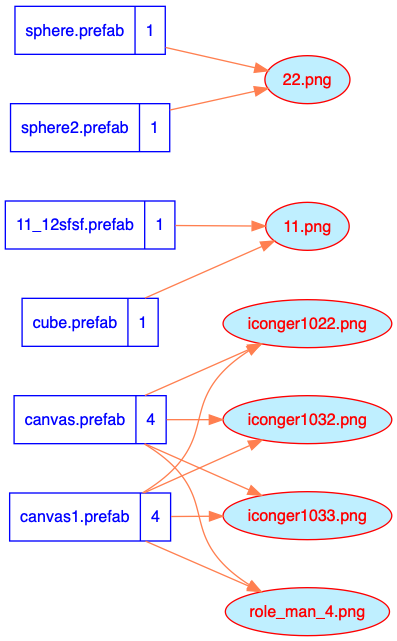
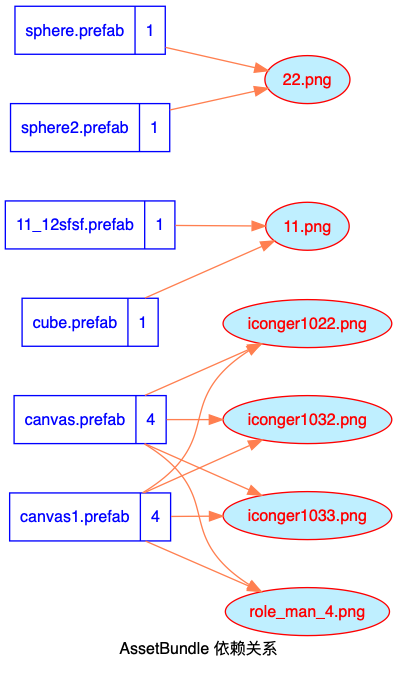
+up

diff --git a/Assets/ABSystem/Editor/AssetBundle/AssetBundleDataWriter.cs b/Assets/ABSystem/Editor/AssetBundle/AssetBundleDataWriter.cs
@@ -1,6 +1,7 @@
 using System.Collections.Generic;
 using System.IO;
 using System.Text;
+using UnityEngine;
 
 namespace Tangzx.ABSystem
 {
@@ -17,6 +18,7 @@ namespace Tangzx.ABSystem
         {
             string header = @"digraph dep {
     fontname = ""Microsoft YaHei"";
+    label = ""AssetBundle 依赖关系""
     nodesep=0.5
     rankdir = ""LR""
     fontsize = 12;
